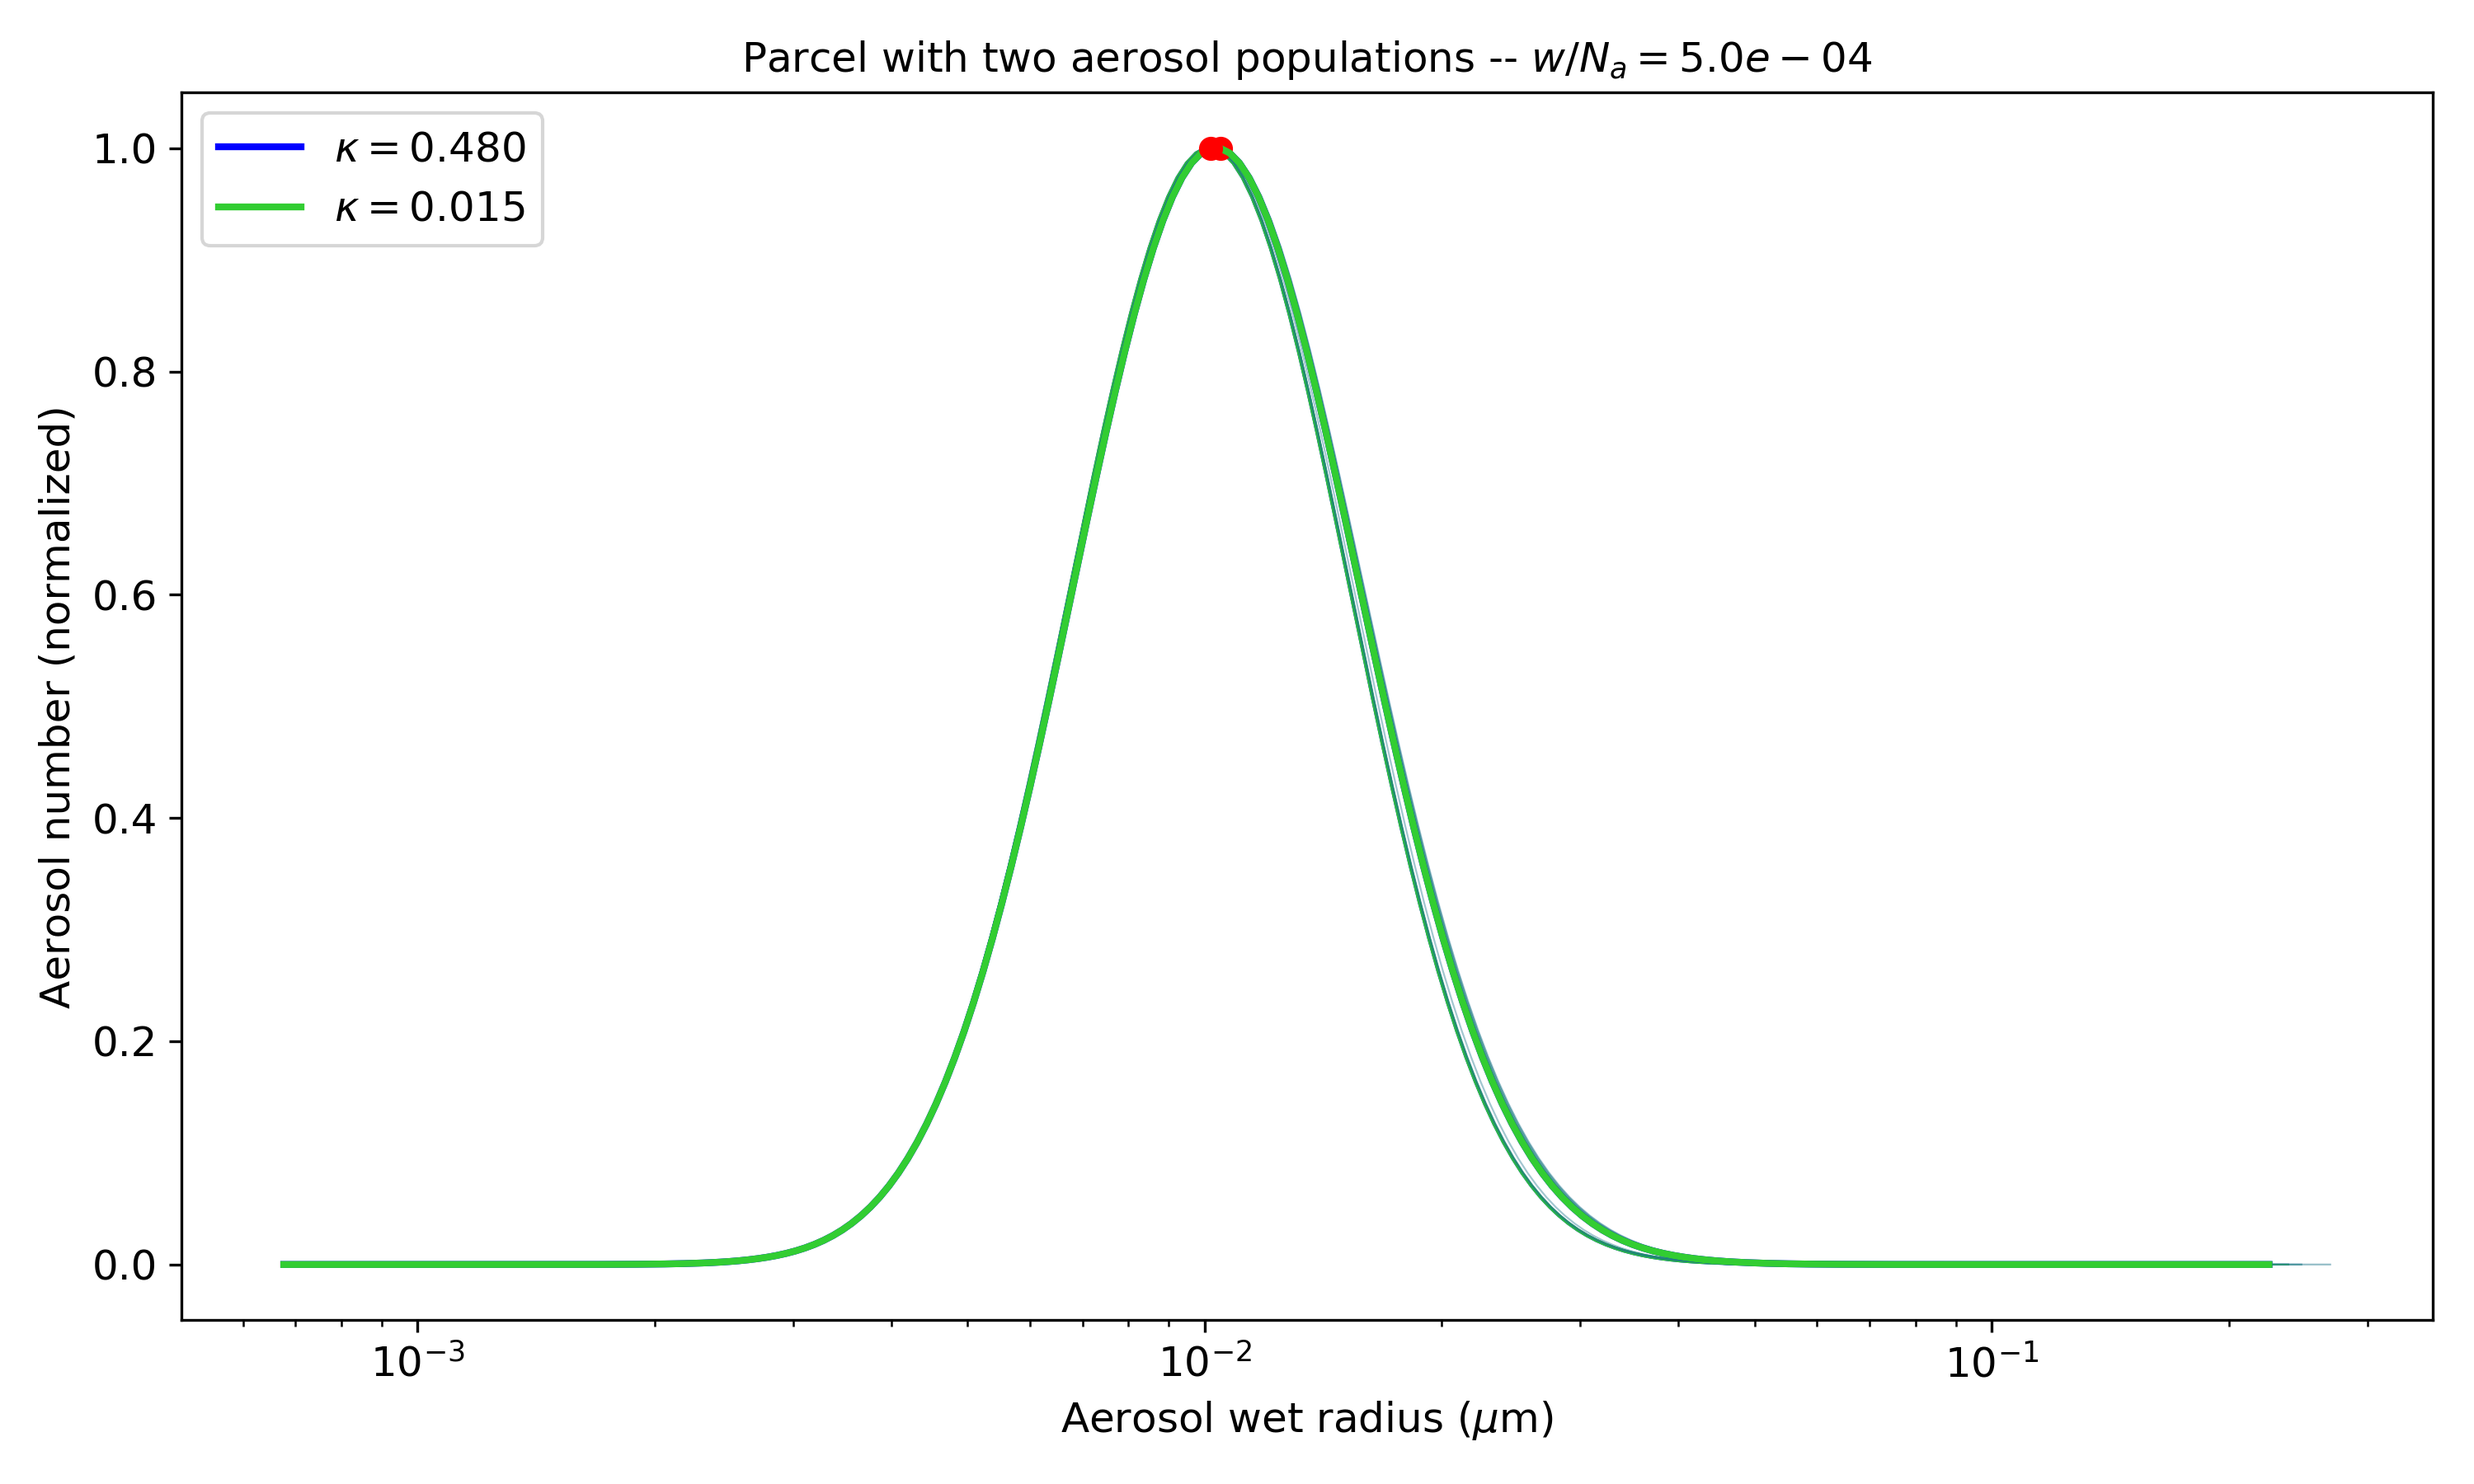
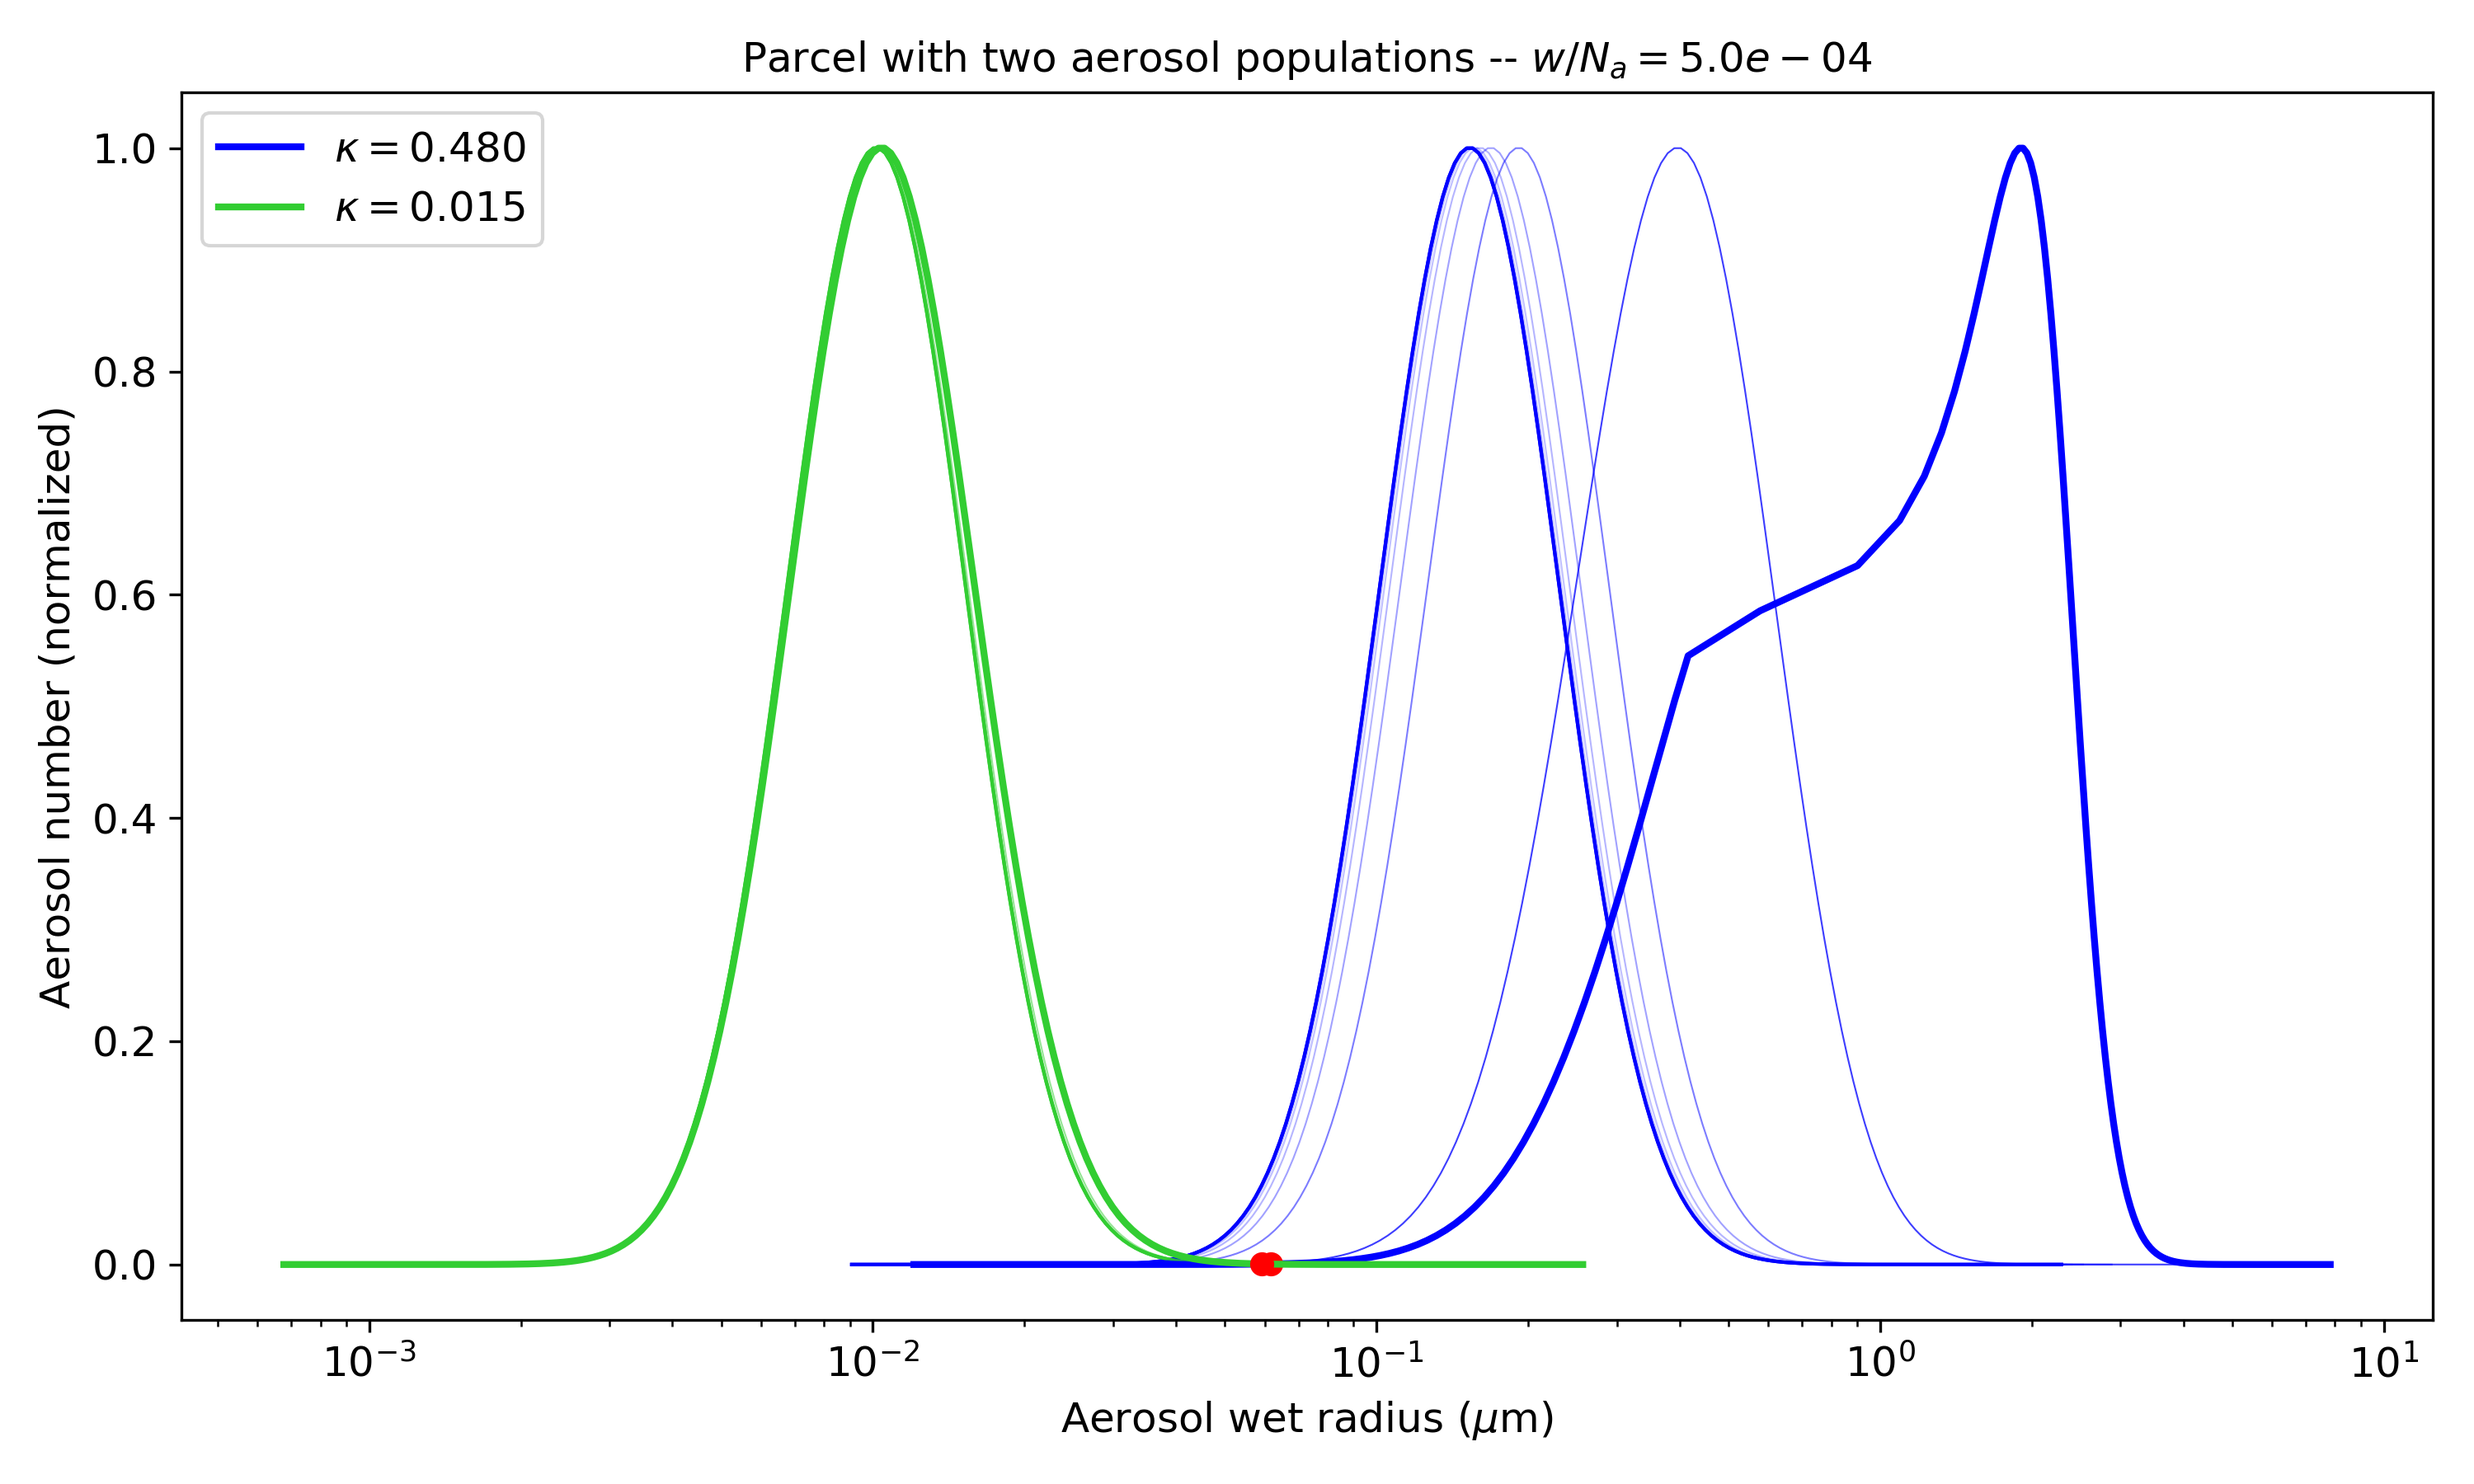
fix kappa tests

diff --git a/clare/aerosol_plots.py b/clare/aerosol_plots.py
@@ -144,7 +144,7 @@ def dist_int(w,Na,Ni,aer_array,name,kappa,mu):
             r = arr[t,:]
             
             if t == tlist[-1]:
-                if name[i] != 'name':
+                if name[i] != "name{:1d}".format(i+1):
                     plt.semilogx(r*1e6, N/maxN, '-', lw=2, color=col[i], label=name[i]+", $\kappa = ${:.3f}".format(kappa[i]))
                 else:
                     plt.semilogx(r*1e6, N/maxN, '-', lw=2, color=col[i], label="$\kappa = ${:.3f}".format(kappa[i]))
@@ -167,8 +167,7 @@ def dist_int(w,Na,Ni,aer_array,name,kappa,mu):
     plt.tight_layout()
     
     savename = "./figs/kappa/dist_growth_m1_{:.3f}_k1_{:.3f}_m2_{:.3f}_k2_{:.3f}.png".format(mu[0],kappa[0],mu[1],kappa[1])
-    if ((name[0] != "name") and (name[1] != "name")):
-        print("save")
+    if ((name[0] != "name1") and (name[1] != "name2")):
         savename = "./figs/aerosoltypes/dist_growth_{:s}_k1_{:.3f}_{:s}_k2_{:.3f}.png".format(name[0],kappa[0],name[1],kappa[1])
     plt.savefig(savename, dpi=300)
 
@@ -183,7 +182,7 @@ def dist_compete(w,Na,Ni,aer_array,name,kappa,mu):
     for i in np.arange(npop):
         v = clc.calc_tot_vol(aer_array[i],Ni[i])
         grow = np.diff(v)/v[0:-1]
-        if name[i] != 'name':
+        if name[i] != "name{:1d}".format(i+1):
             plt.loglog(np.arange(1,endt),grow,'-',color=col[i],label=name[i]+", $\kappa = ${:.3f}".format(kappa[i]))
         else:
             plt.loglog(np.arange(1,endt),grow,'-',color=col[i],label="$\kappa = ${:.3f}".format(kappa[i]))
@@ -197,7 +196,6 @@ def dist_compete(w,Na,Ni,aer_array,name,kappa,mu):
     plt.tight_layout()
     
     savename = "./figs/kappa/growth_rates_m1_{:.3f}_k1_{:.3f}_m2_{:.3f}_k2_{:.3f}.png".format(mu[0],kappa[0],mu[1],kappa[1])
-    if ((name[0] != "name") and (name[1] != "name")):
-        print("save")
+    if ((name[0] != "name1") and (name[1] != "name2")):
         savename = "./figs/aerosoltypes/growth_rates_{:s}_k1_{:.3f}_{:s}_k2_{:.3f}.png".format(name[0],kappa[0],name[1],kappa[1])
     plt.savefig(savename, dpi=300)

diff --git a/clare/dist_interact.py b/clare/dist_interact.py
@@ -12,6 +12,24 @@ def main():
     # aerosol type (citation)
     # prop = [name, mean radius (um), hygroscopicity=kappa]
 
+    #run_real_aerosol_pops()
+
+    mu1 = 0.1 # (um), typical range is 10 - 1000 (nm), so 0.01 - 1.0 (um)
+    kappa1 = 0.48 # typical range is 0.15 - 1.2
+    prop1 = ['name1',mu1,kappa1]
+    n = 6
+    mus = np.logspace(-2,1,n)
+    kappas = 1.5*np.logspace(-2,0,n)
+    for i in np.arange(n):
+        mu2 = mus[i]
+        kappa2 = kappas[i]
+        prop2 = ['name2',mu2,kappa2]
+        runtest(prop1,prop2)
+
+def run_real_aerosol_pops():
+    # aerosol type (citation)
+    # prop = [name, mean radius (um), hygroscopicity=kappa]
+
     # ammonium sulfate aerosol (Chen et al., 2018)
     sulf = ['sulfate', 0.06, 0.61]
     # sea salt aerosol (Zieger et al., 2017)
@@ -37,18 +55,8 @@ def main():
     runtest(sulf,freshburn)
 
     # # test
-    # prop2 = ['not sea salt',0.2,0.1]
+    # prop2 = ['other,0.2,0.1]
     # runtest(sulf,prop2)
-
-    mu0 = 0.1 # (um), typical range is 10 - 1000 (nm), so 0.01 - 1.0 (um)
-    kappa0 = 0.48 # typical range is 0.15 - 1.2
-    prop1 = ['name',mu0,kappa0]
-    n = 6
-    mus = np.logspace(-2,1,n)
-    kappas = 1.5*np.logspace(-2,0,n)
-    for i in np.arange(n):
-        prop2 = ['name',mus[i],kappas[i]]
-        runtest(prop1,prop2)
 
 def runtest(prop1, prop2):
     # environmental variables
@@ -74,7 +82,7 @@ def runtest(prop1, prop2):
     initial_aerosols = [aer1, aer2]
 
     dt = 1.0 # timestep (s)
-    h_end = 5e3 # end altitude (m)
+    h_end = 5e2 # end altitude (m)
     t_end = h_end/w # end time (s)
 
     model = pm.ParcelModel(initial_aerosols, w, T0, S0, P0, console=False, accom=0.5)
